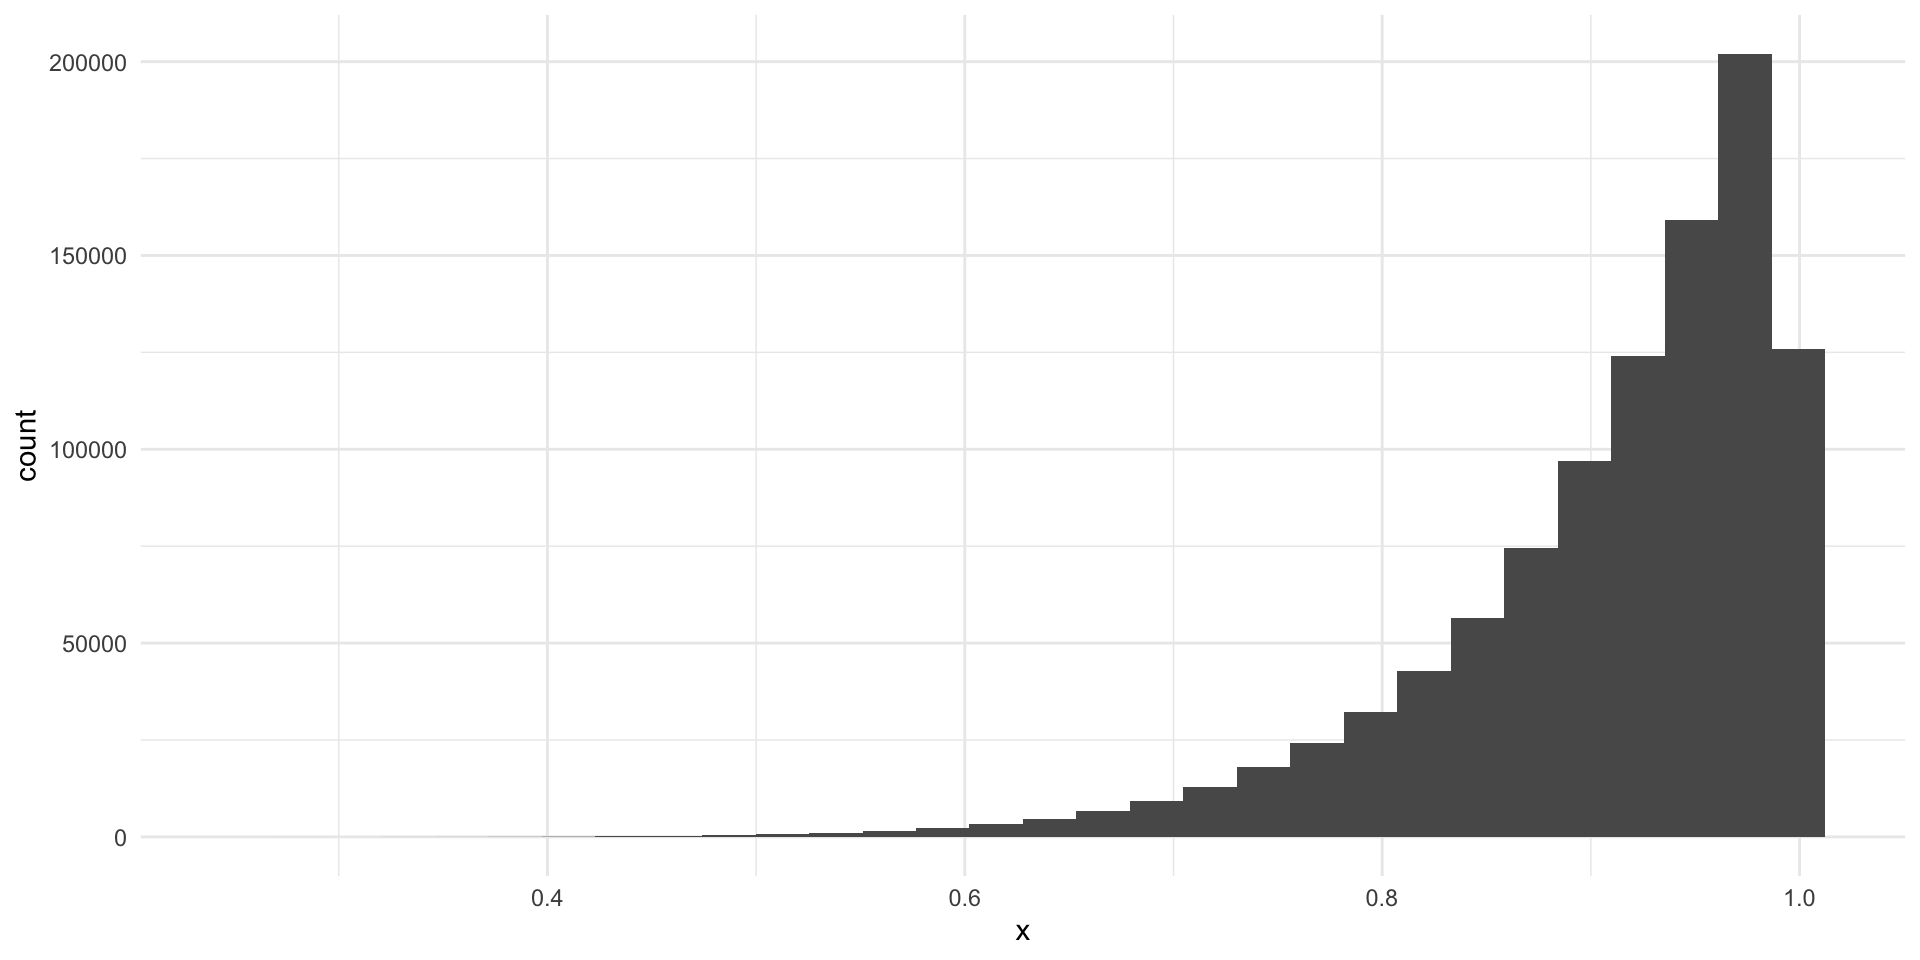
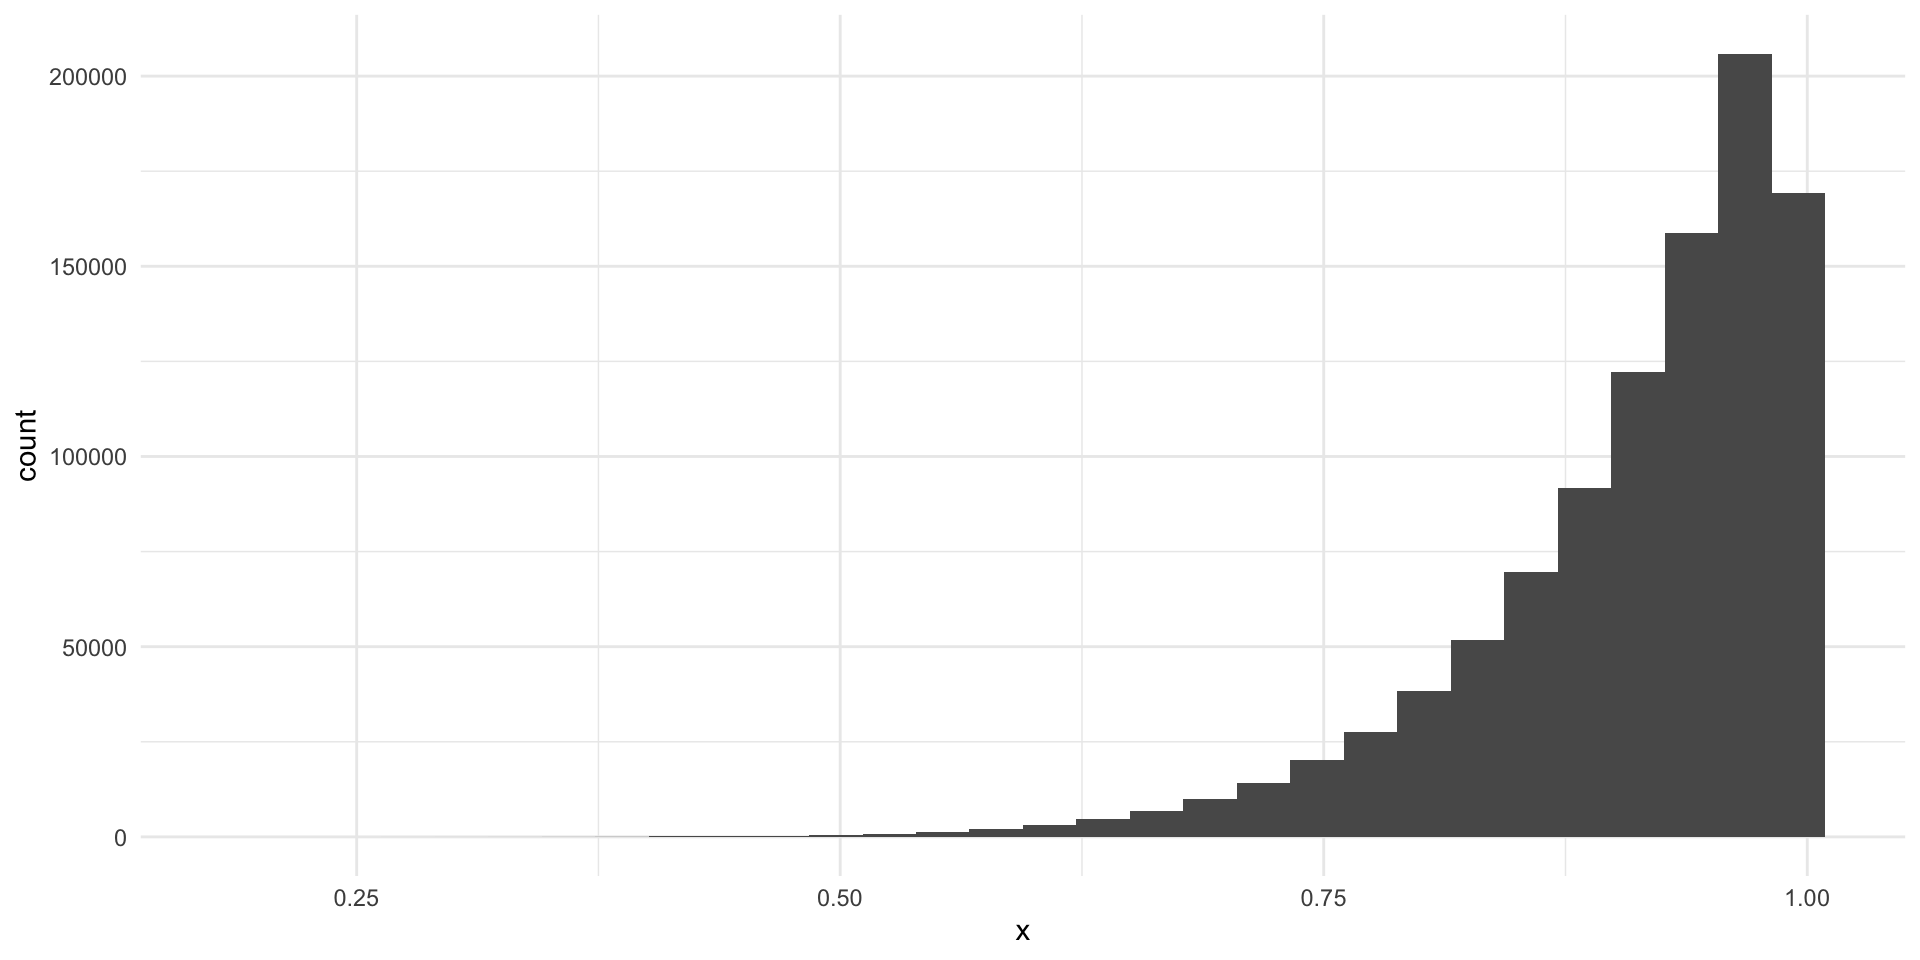
Update zoom link

diff --git a/docs/content/02-descriptive_statistics.html b/docs/content/02-descriptive_statistics.html
@@ -882,18 +882,18 @@ Tip
 <span id="cb27-10"><a href="#cb27-10" aria-hidden="true" tabindex="-1"></a>wide_var_calc</span></code><button title="Copy to Clipboard" class="code-copy-button"><i class="bi"></i></button></pre></div>
 <div class="cell-output cell-output-stdout">
 <pre><code># A tibble: 1,000,000 × 4
-        x     mean   diff  diff_2
-    &lt;dbl&gt;    &lt;dbl&gt;  &lt;dbl&gt;   &lt;dbl&gt;
- 1 -5.47  0.000876 -5.47  29.9   
- 2  1.45  0.000876  1.45   2.10  
- 3  1.33  0.000876  1.33   1.77  
- 4 -0.464 0.000876 -0.465  0.216 
- 5  0.944 0.000876  0.943  0.890 
- 6 -0.855 0.000876 -0.856  0.732 
- 7  0.526 0.000876  0.525  0.276 
- 8 -1.05  0.000876 -1.05   1.10  
- 9 -1.62  0.000876 -1.62   2.62  
-10 -0.186 0.000876 -0.186  0.0348
+       x    mean  diff diff_2
+   &lt;dbl&gt;   &lt;dbl&gt; &lt;dbl&gt;  &lt;dbl&gt;
+ 1  1.68 0.00183  1.67   2.80
+ 2  2.36 0.00183  2.36   5.58
+ 3 -4.30 0.00183 -4.30  18.5 
+ 4 -2.21 0.00183 -2.21   4.87
+ 5 -2.97 0.00183 -2.97   8.82
+ 6  3.71 0.00183  3.71  13.8 
+ 7 -2.18 0.00183 -2.18   4.76
+ 8 -3.68 0.00183 -3.68  13.5 
+ 9  1.11 0.00183  1.11   1.23
+10 -1.01 0.00183 -1.01   1.03
 # ℹ 999,990 more rows</code></pre>
 </div>
 </div>
@@ -903,7 +903,7 @@ Tip
 <span id="cb29-2"><a href="#cb29-2" aria-hidden="true" tabindex="-1"></a></span>
 <span id="cb29-3"><a href="#cb29-3" aria-hidden="true" tabindex="-1"></a>wide_var</span></code><button title="Copy to Clipboard" class="code-copy-button"><i class="bi"></i></button></pre></div>
 <div class="cell-output cell-output-stdout">
-<pre><code>[1] 4.005748</code></pre>
+<pre><code>[1] 4.00766</code></pre>
 </div>
 </div>
 <p>We can compare this to the variance for our narrower distribution.</p>
@@ -919,7 +919,7 @@ Tip
 <span id="cb31-9"><a href="#cb31-9" aria-hidden="true" tabindex="-1"></a></span>
 <span id="cb31-10"><a href="#cb31-10" aria-hidden="true" tabindex="-1"></a>narrow_var</span></code><button title="Copy to Clipboard" class="code-copy-button"><i class="bi"></i></button></pre></div>
 <div class="cell-output cell-output-stdout">
-<pre><code>[1] 1.002867</code></pre>
+<pre><code>[1] 0.999395</code></pre>
 </div>
 </div>
 <p>It is, in fact, smaller!</p>
@@ -927,15 +927,15 @@ Tip
 <div class="cell">
 <div class="sourceCode cell-code" id="cb33"><pre class="sourceCode r code-with-copy"><code class="sourceCode r"><span id="cb33-1"><a href="#cb33-1" aria-hidden="true" tabindex="-1"></a><span class="fu">var</span>(wide_dist)</span></code><button title="Copy to Clipboard" class="code-copy-button"><i class="bi"></i></button></pre></div>
 <div class="cell-output cell-output-stdout">
-<pre><code>         x
-x 4.005748</code></pre>
+<pre><code>        x
+x 4.00766</code></pre>
 </div>
 </div>
 <div class="cell">
 <div class="sourceCode cell-code" id="cb35"><pre class="sourceCode r code-with-copy"><code class="sourceCode r"><span id="cb35-1"><a href="#cb35-1" aria-hidden="true" tabindex="-1"></a><span class="fu">var</span>(narrow_dist)</span></code><button title="Copy to Clipboard" class="code-copy-button"><i class="bi"></i></button></pre></div>
 <div class="cell-output cell-output-stdout">
 <pre><code>         x
-x 1.002867</code></pre>
+x 0.999395</code></pre>
 </div>
 </div>
 <div class="cell">
@@ -952,26 +952,26 @@ x TRUE</code></pre>
 <div class="cell">
 <div class="sourceCode cell-code" id="cb39"><pre class="sourceCode r code-with-copy"><code class="sourceCode r"><span id="cb39-1"><a href="#cb39-1" aria-hidden="true" tabindex="-1"></a><span class="fu">sqrt</span>(wide_var)</span></code><button title="Copy to Clipboard" class="code-copy-button"><i class="bi"></i></button></pre></div>
 <div class="cell-output cell-output-stdout">
-<pre><code>[1] 2.001436</code></pre>
+<pre><code>[1] 2.001914</code></pre>
 </div>
 </div>
 <div class="cell">
 <div class="sourceCode cell-code" id="cb41"><pre class="sourceCode r code-with-copy"><code class="sourceCode r"><span id="cb41-1"><a href="#cb41-1" aria-hidden="true" tabindex="-1"></a><span class="fu">sqrt</span>(narrow_var)</span></code><button title="Copy to Clipboard" class="code-copy-button"><i class="bi"></i></button></pre></div>
 <div class="cell-output cell-output-stdout">
-<pre><code>[1] 1.001433</code></pre>
+<pre><code>[1] 0.9996974</code></pre>
 </div>
 </div>
 <p>You can get this directly using <code>sd()</code>:</p>
 <div class="cell">
 <div class="sourceCode cell-code" id="cb43"><pre class="sourceCode r code-with-copy"><code class="sourceCode r"><span id="cb43-1"><a href="#cb43-1" aria-hidden="true" tabindex="-1"></a><span class="fu">sd</span>(wide_dist<span class="sc">$</span>x)</span></code><button title="Copy to Clipboard" class="code-copy-button"><i class="bi"></i></button></pre></div>
 <div class="cell-output cell-output-stdout">
-<pre><code>[1] 2.001436</code></pre>
+<pre><code>[1] 2.001914</code></pre>
 </div>
 </div>
 <div class="cell">
 <div class="sourceCode cell-code" id="cb45"><pre class="sourceCode r code-with-copy"><code class="sourceCode r"><span id="cb45-1"><a href="#cb45-1" aria-hidden="true" tabindex="-1"></a><span class="fu">sd</span>(narrow_dist<span class="sc">$</span>x)</span></code><button title="Copy to Clipboard" class="code-copy-button"><i class="bi"></i></button></pre></div>
 <div class="cell-output cell-output-stdout">
-<pre><code>[1] 1.001433</code></pre>
+<pre><code>[1] 0.9996974</code></pre>
 </div>
 </div>
 <p>If you look back to our graphs, you will see that I set the standard deviations explicitly when I generated the data: <code>rnorm()</code> takes an <code>sd</code> argument. This is great because we can confirm that the standard deviations for the wide and narrow distributions are 2 and 1 respectively (with a little bit of randomnoise).</p>
@@ -1015,12 +1015,12 @@ Tip
 <pre><code># A tibble: 6 × 1
       x
   &lt;dbl&gt;
-1  4.63
-2  7.44
-3  5.36
-4  3.87
-5  4.95
-6  1.89</code></pre>
+1  4.37
+2  2.43
+3  3.71
+4  5.27
+5  4.18
+6  4.89</code></pre>
 </div>
 </div>
 <div class="callout callout-style-default callout-note callout-titled">
@@ -1090,12 +1090,12 @@ z_i = \frac{x_i - \mu_x}{\sigma_x}
 <pre><code># A tibble: 6 × 4
       x  mean    sd z_score
   &lt;dbl&gt; &lt;dbl&gt; &lt;dbl&gt;   &lt;dbl&gt;
-1  4.63  5.00  2.00 -0.185 
-2  7.44  5.00  2.00  1.22  
-3  5.36  5.00  2.00  0.180 
-4  3.87  5.00  2.00 -0.564 
-5  4.95  5.00  2.00 -0.0239
-6  1.89  5.00  2.00 -1.55  </code></pre>
+1  4.37  5.00  2.00 -0.315 
+2  2.43  5.00  2.00 -1.29  
+3  3.71  5.00  2.00 -0.647 
+4  5.27  5.00  2.00  0.134 
+5  4.18  5.00  2.00 -0.413 
+6  4.89  5.00  2.00 -0.0567</code></pre>
 </div>
 </div>
 <p>We can confirm this:</p>

diff --git a/docs/index.html b/docs/index.html
@@ -170,7 +170,7 @@ ul.task-list li input[type="checkbox"] {
 <h3 class="anchored" data-anchor-id="office-hours">Office hours</h3>
 <ul>
 <li><i class="fa-solid fa-clock" aria-label="clock"></i> &nbsp; Wednesday, 10:00 - 11:00 AM</li>
-<li><i class="fa-solid fa-location-dot" aria-label="location-dot"></i> &nbsp; <a href="https://app.testudo.umd.edu/soc/202308/GVPT">Zoom</a></li>
+<li><i class="fa-solid fa-location-dot" aria-label="location-dot"></i> &nbsp; <a href="https://umd.zoom.us/j/94914196966">Zoom</a></li>
 </ul>
 </section>
 </div>
